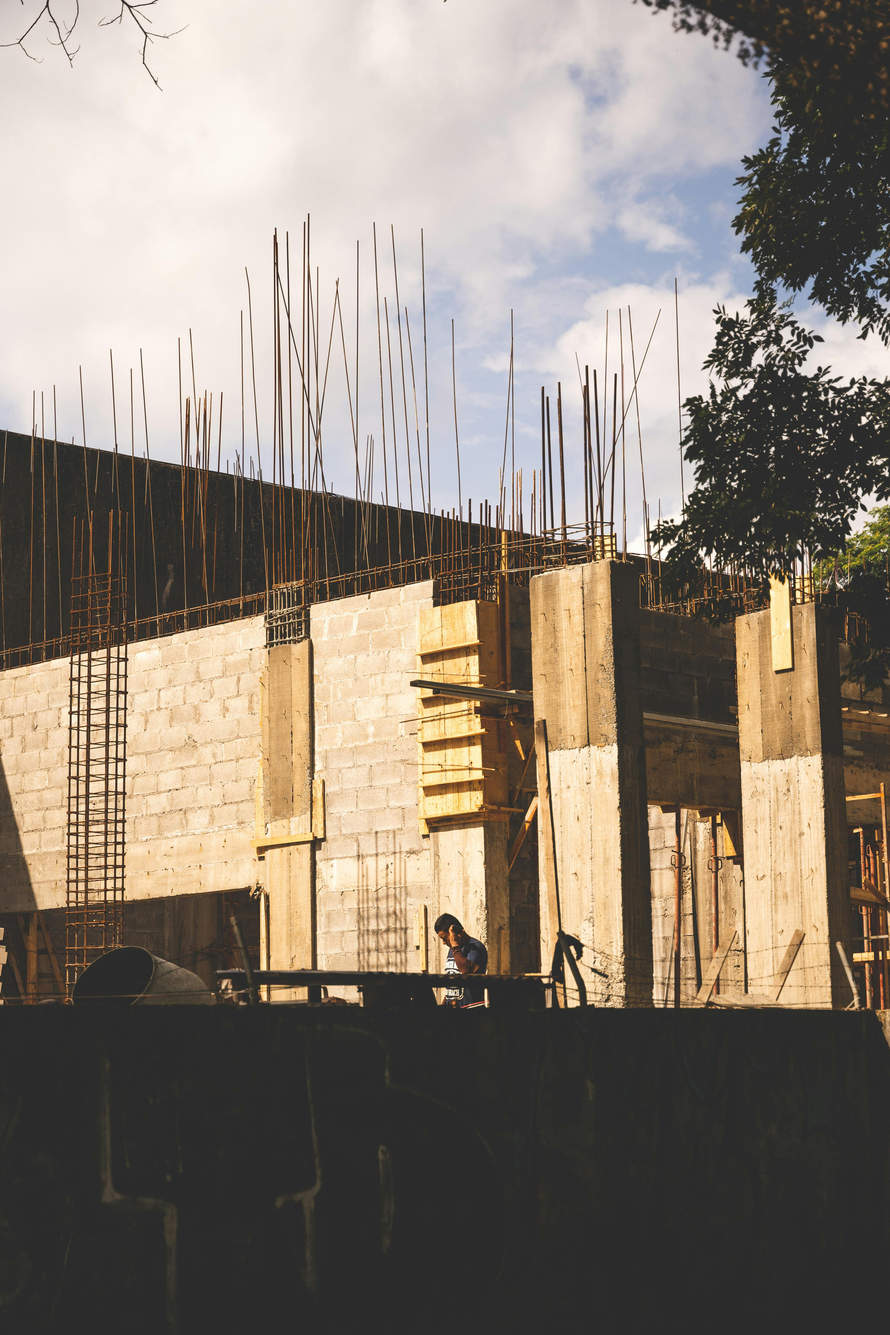
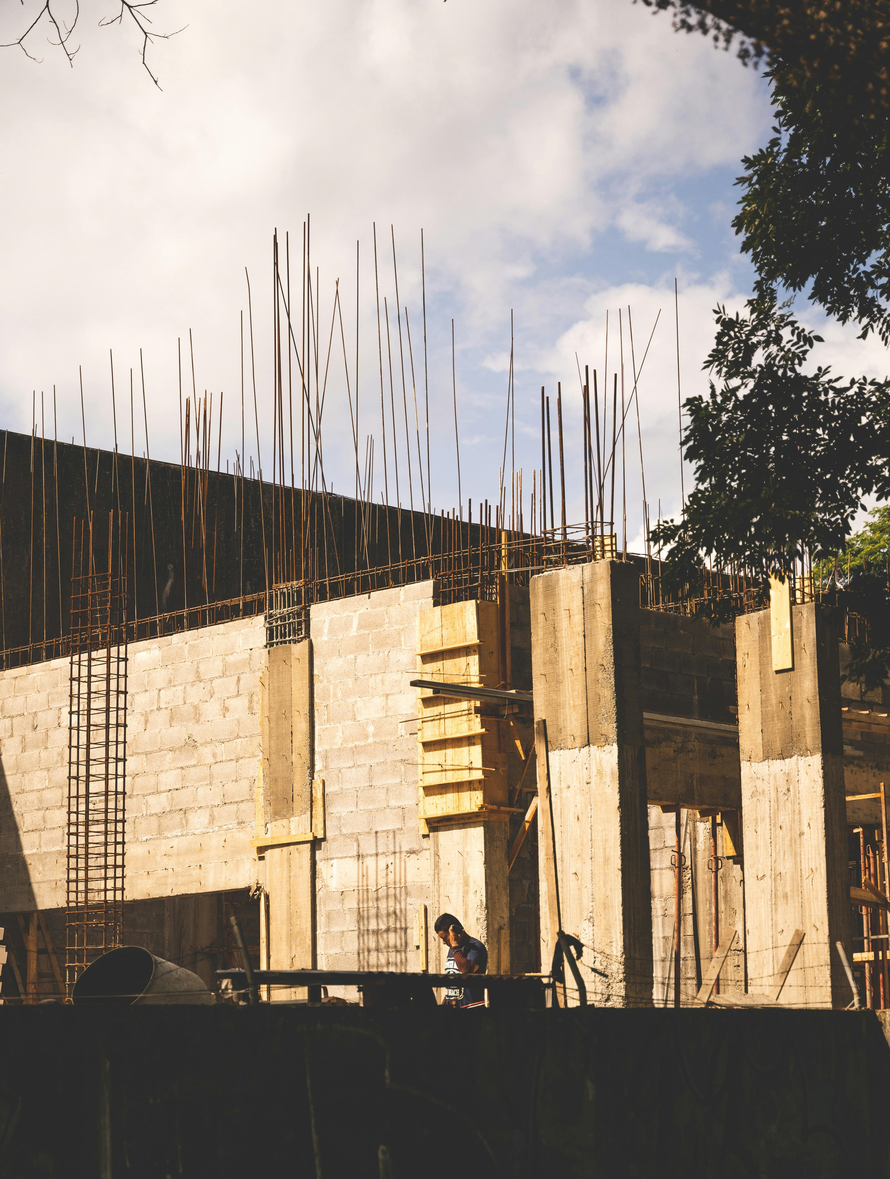
nuove foto

diff --git a/src/components/Home3Services.vue b/src/components/Home3Services.vue
@@ -35,7 +35,7 @@ export default defineComponent({
         { id: 2, to_name:'pratiche_catastali', icon: 'flaticon-crane', title: 'PRATICHE CATASTALI', description: 'Rilievo del fabbricato, realizzazione dei modelli per l’attribuzione della rendita catastale, redazione delle planimetrie: il nostro studio si occupa di tutte le pratiche catastali e di edilizia, per privati e per imprese.  E se il vostro immobile ha subito una variazione? Ci occupiamo anche di pratiche di accatastamento a seguito di frazionamenti o ristrutturazioni.' },
         { id: 3, to_name:'perizie_stime_tribunale', icon: 'flaticon-interior-design-1', title: 'PERIZIE, STIME E TRIBUNALE', description: 'Devi comprare o vendere un immobile? Dividere il patrimonio immobiliare? I nostri professionisti hanno una lunga esperienza nel campo delle stime. Aiutiamo i nostri clienti nella compravendita, nella divisione, ma anche nella redazione di perizie di stima giurate e stime in campo contenzioso. Davanti al giudice possiamo essere i tuoi Consulenti Tecnici di Parte e di Ufficio, il tuo perito di fiducia.' },
         { id: 4, to_name:'investimenti_immobiliari', icon: 'fas fa-chart-line', title: 'INVESTIMENTI IMMOBILIARI', description: "Offriamo servizi completi di compravendita e rivendita di proprietà, con un'attenzione particolare alle opportunità di case all'asta. Il nostro team di esperti vi guiderà passo dopo passo per massimizzare i vostri rendimenti e minimizzare i rischi. Siamo qui per trasformare il vostro investimento in un successo, con strategie personalizzate e soluzioni innovative. Scoprite le migliori occasioni sul mercato immobiliare e iniziate oggi stesso a costruire il vostro futuro finanziario con noi." },
-        { id: 5, to_name:'edilizia', icon: 'flaticon-home', title: 'EDILIZIA', description: "La nostra agenzia immobiliare è specializzata nella gestione di progetti edilizi, sia per la costruzione di nuovi cantieri che per la ristrutturazione di immobili. Offriamo un servizio completo che segue ogni fase, dalla progettazione alla realizzazione, con l’obiettivo di valorizzare al massimo ogni proprietà. Che tu voglia costruire da zero o riqualificare un immobile, garantiamo soluzioni personalizzate e un’attenzione costante ai dettagli. Affidati alla nostra esperienza per un progetto di successo." },
+        { id: 5, to_name:'edilizia', icon: 'flaticon-home', title: 'EDILIZIA', description: "La nostra società immobiliare è specializzata nella gestione di progetti edilizi, sia per la costruzione di nuovi cantieri che per la ristrutturazione di immobili. Offriamo un servizio completo che segue ogni fase, dalla progettazione alla realizzazione, con l’obiettivo di valorizzare al massimo ogni proprietà. Che tu voglia costruire da zero o riqualificare un immobile, garantiamo soluzioni personalizzate e un’attenzione costante ai dettagli. Affidati alla nostra esperienza per un progetto di successo." },
         { id: 6, to_name:'servizi_vari', icon: 'flaticon-furniture', title: 'SERVIZI VARI', description: "Offriamo una gamma di servizi, tra cui consulenza creditizia, convenzioni notarili, arredamenti, progettazione d'interni e render per interni ed esterni. Affidati a noi per soluzioni complete e personalizzate che rispondano a tutte le tue esigenze, garantendo qualità e professionalità in ogni dettaglio." },
         // { icon: 'flaticon-home', title: 'Architecture & build.' }
       ]

diff --git a/src/views/services/details/ServicesDetailsServizi-Vari.vue b/src/views/services/details/ServicesDetailsServizi-Vari.vue
@@ -14,18 +14,15 @@
           <div class="col-lg-6 m-b30 aos-item aos-init aos-animate">
             <div class="section-head style-2">
               <!-- <h6 class="sub-title text-primary">About Us</h6> -->
-              <h2 class="title m-b20">Servizi Vari</h2>
-               <p>•	Consulenza per interventi di miglioramento sismico</p> 
-               <p>•	Assistenza per pratiche di successione immobiliare</p>
-               <p>•	Progettazione di spazi esterni e giardini</p>
-               <p>•	Studio Notarile Convenzionato</p>
-               <p>•	Traslochi</p>
-               <p>•	Progettazione e Manutenzione Giardini</p>
-               <p>•	Progettazione e Design Interno con Convenzioni Dirette Mobilifici</p>
-               <h1>Consulenza per Edilizia</h1>
+              <h2 class="title m-b20">Consulenza Finanziaria</h2>
                <p>-	Mutui Ipotecari</p>
                <p>-	Prestiti</p>
                <p>-	Surroghe e Cessione del Quinto</p>
+               <h2 class="title m-b20">Servizi Vari</h2>
+               <p>•	Progettazione di spazi esterni e giardini</p>
+               <p>•	Studio Notarile Convenzionato</p>
+               <p>•	Traslochi</p>
+               <p>•	Progettazione e Design Interno con Convenzioni dirette Mobilifici</p>
             </div>
             <!-- <RouterLink to="/blog-details" class="btn btn-primary btn-rounded hover-icon">
               <span>READ MORE</span>
@@ -35,7 +32,7 @@
           <div class="col-lg-6 m-b30">
             <div class="dz-media">
               <img
-                src="@/assets/images/banner/bnr20.jpg"
+                src="@/assets/images/banner/bnr33.jpg"
                 alt=""
                 class="img1 aos-item aos-init aos-animate"
               />
@@ -51,7 +48,7 @@ import { defineComponent } from 'vue'
 import CommonBanner from '@/elements/CommonBanner.vue'
 import Brands from '@/elements/Brands.vue'
 import Testimonial2 from '@/components/Testimonial2.vue'
-import bnr5 from '@/assets/images/banner/bnr21.jpg'
+import bnr5 from '@/assets/images/banner/bnr35.jpg'
 import bg2 from '@/assets/images/background/bg2.png'
 import { RouterLink } from 'vue-router'
 import MainBanner3 from '@/components/MainBanner3.vue'

diff --git a/src/views/services/details/ServicesDetailsEdilizia.vue b/src/views/services/details/ServicesDetailsEdilizia.vue
@@ -29,10 +29,16 @@
               <i class="fas fa-arrow-right"></i>
             </RouterLink> -->
           </div>
-          <div class="col-lg-6 m-b30">
+          <div class="col-lg-6 m-b31">
             <div class="dz-media">
               <img
-                src="@/assets/images/banner/bnr18.jpg"
+                src="@/assets/images/banner/bnr31.jpg"
+                alt=""
+                class="img1 aos-item aos-init aos-animate"
+              />
+              <h1></h1>
+              <img
+                src="@/assets/images/banner/bnr30.jpg"
                 alt=""
                 class="img1 aos-item aos-init aos-animate"
               />
